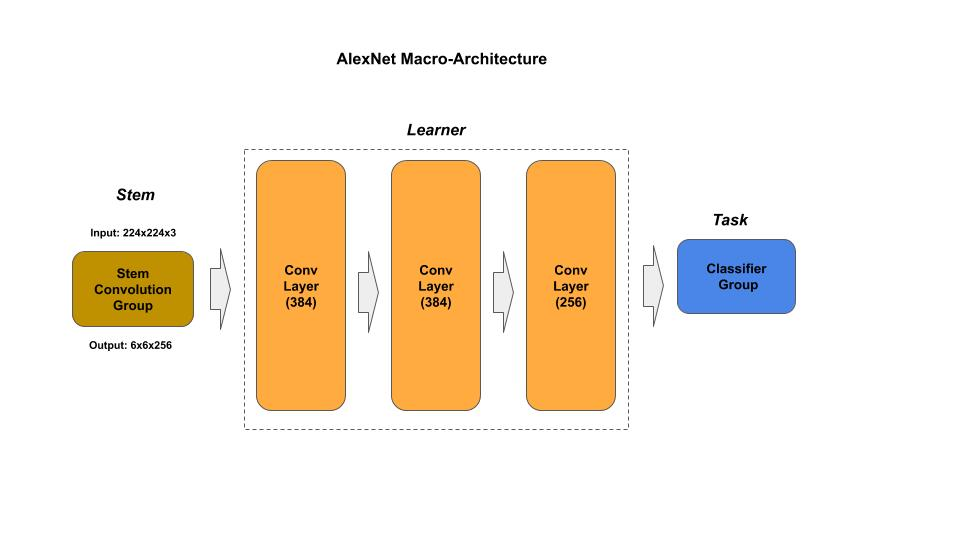
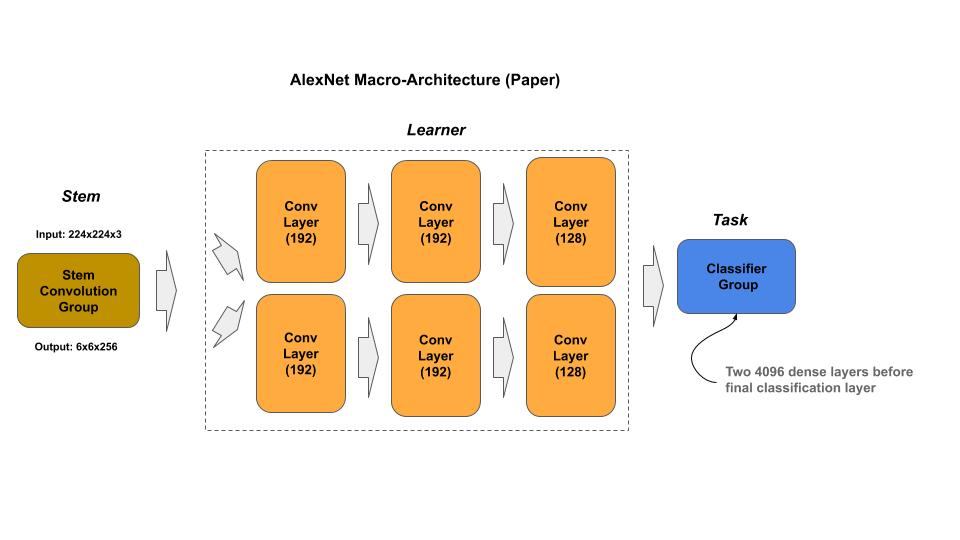
add macro pics

diff --git a/zoo/alexnet/README.md b/zoo/alexnet/README.md
@@ -1,13 +1,27 @@
 
-# ResNet
+# AlexNet
 
 [alexnet.py](alexnet.py) - simplified (single path) academic (idiomatic)<br/>
 [alexnet_p.py](alexnet.py) - original (dual path) academic (idiomatic)<br/>
 
-[Paper](https://arxiv.org/pdf/1512.03385.pdf)
+[Paper](https://papers.nips.cc/paper/4824-imagenet-classification-with-deep-convolutional-neural-networks.pdf)
 
 ## Macro-Architecture
+
+### Simplified
+
+<img src='macro-simplified.jpg'>
+
+### Paper
 
 <img src='macro.jpg'>
 
 ## Micro-Architecture
+
+### Stem
+
+<img src='stem.jpg'>
+
+### Classifier
+
+<img src='classifier.jpg'>
